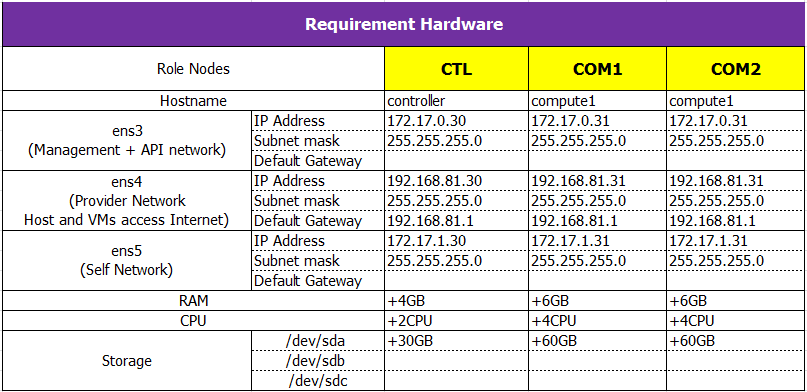
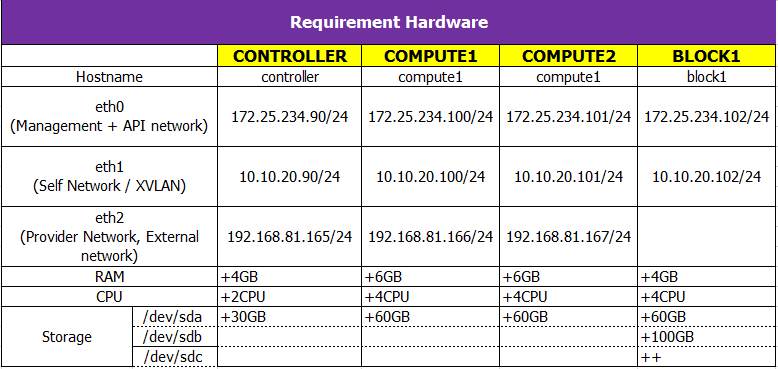
Update project info

diff --git a/README.md b/README.md
@@ -1,30 +1,73 @@
 # OpenStack Queens LAB
 
+A small script used for deploy OpenStack Queens
+
+Supported OS:
+- Ubuntu Xenial 16.04 LTS
+- Ubuntu Bionic Beaver 18.4 LTS
+
 ## Topology
 
 ![topo](./images/topo.png)
 
+## Hardware requirements
+
 ![requirement_hardware](./images/requirement_hardware.png)
 
-## ALL node
+# Step 1: Network setup
 
+Changing network interfaces name
+
+Edit your /etc/default/grub changing the line from `GRUB_CMDLINE_LINUX=""` to `GRUB_CMDLINE_LINUX="net.ifnames=0 biosdevname=0"`
+and, finally:
+
+```sh
+sudo update-grub
+sudo reboot
+```
+
+## Ubuntu 16.04
+Manual configure IP address for all node at `/etc/network/interfaces`
+
+Example config
+
+```
+```
+
+## Ubuntu 18.04
+Ubuntu 18.04 move `/etc/network/interfaces` to netplan. You need update IP config at `/etc/netplan/*.yaml` 
+
+Example config
+
+```
+```
+
+# Step 2: Install OpenStack
 - Download git & scripts
 
 ```sh
 apt-get -y update && apt-get -y install git-core
-git clone https://github.com/congto/OpenStack-Newton-Scripts.git /root/openstack
+git clone https://github.com/pt-studio/openstack-queens-labs.git /root/openstack
 cd /root/openstack/scripts
 chmod -R +x *.sh
 ```
 
-- You can edit `config.cfg` file if needed
+- Generate new config file or use preconfig file at `out/vars`
+
+```sh
+cd scripts/
+virtualenv -p python3 venv
+. venv/bin/activate
+pip install -r requirements.txt
+python util/generate_config.py
+```
 
 ## Controller
 
 - SSH with `root` account and run scripts
 
 ```sh
-./setup01.sh controller
+./setup01.sh
 ./setup02.sh controller
 ./setup03.sh controller
 ```
@@ -34,11 +77,22 @@ chmod -R +x *.sh
 - SSH with `root` account and run scripts
 
 ```sh
-./setup01.sh compute1
-./setup02.sh compute1
-./setup03.sh compute1
+./setup01.sh
+./setup02.sh computeI
+./setup03.sh computeI
 ```
 
+## Block1 to BlockN
+
+- SSH with `root` account and run scripts
+
+```sh
+./setup01.sh
+./setup02.sh blockI
+./setup03.sh blockI
+```
+
+# Step 3: Test operation
 ## Create network, VM
 
 - On Controller node, run
@@ -49,16 +103,31 @@ chmod -R +x *.sh
 
 ## Login dashboad
 
-- Dashboard: `192.168.81.30/horizon`
-- User : `admin/Welcome123`
+- Dashboard: `http://horizon-fqdn/horizon`
+- User : `admin/yourpassword`
 
-## Check
-
-### Check by command or dashboard
+## Check by command or dashboard
 
 ![console](./images/img1.png)
 ![web](./images/img2.png)
 
-## Credit
+# Credit
+Thanks to @congto https://github.com/congto/OpenStack-Newton-Scripts
 
+# License
 
+```
+Copyright 2018 PT Studio.
+
+Licensed under the Apache License, Version 2.0 (the "License");
+you may not use this file except in compliance with the License.
+You may obtain a copy of the License at
+
+   http://www.apache.org/licenses/LICENSE-2.0
+
+Unless required by applicable law or agreed to in writing, software
+distributed under the License is distributed on an "AS IS" BASIS,
+WITHOUT WARRANTIES OR CONDITIONS OF ANY KIND, either express or implied.
+See the License for the specific language governing permissions and
+limitations under the License.
+```
